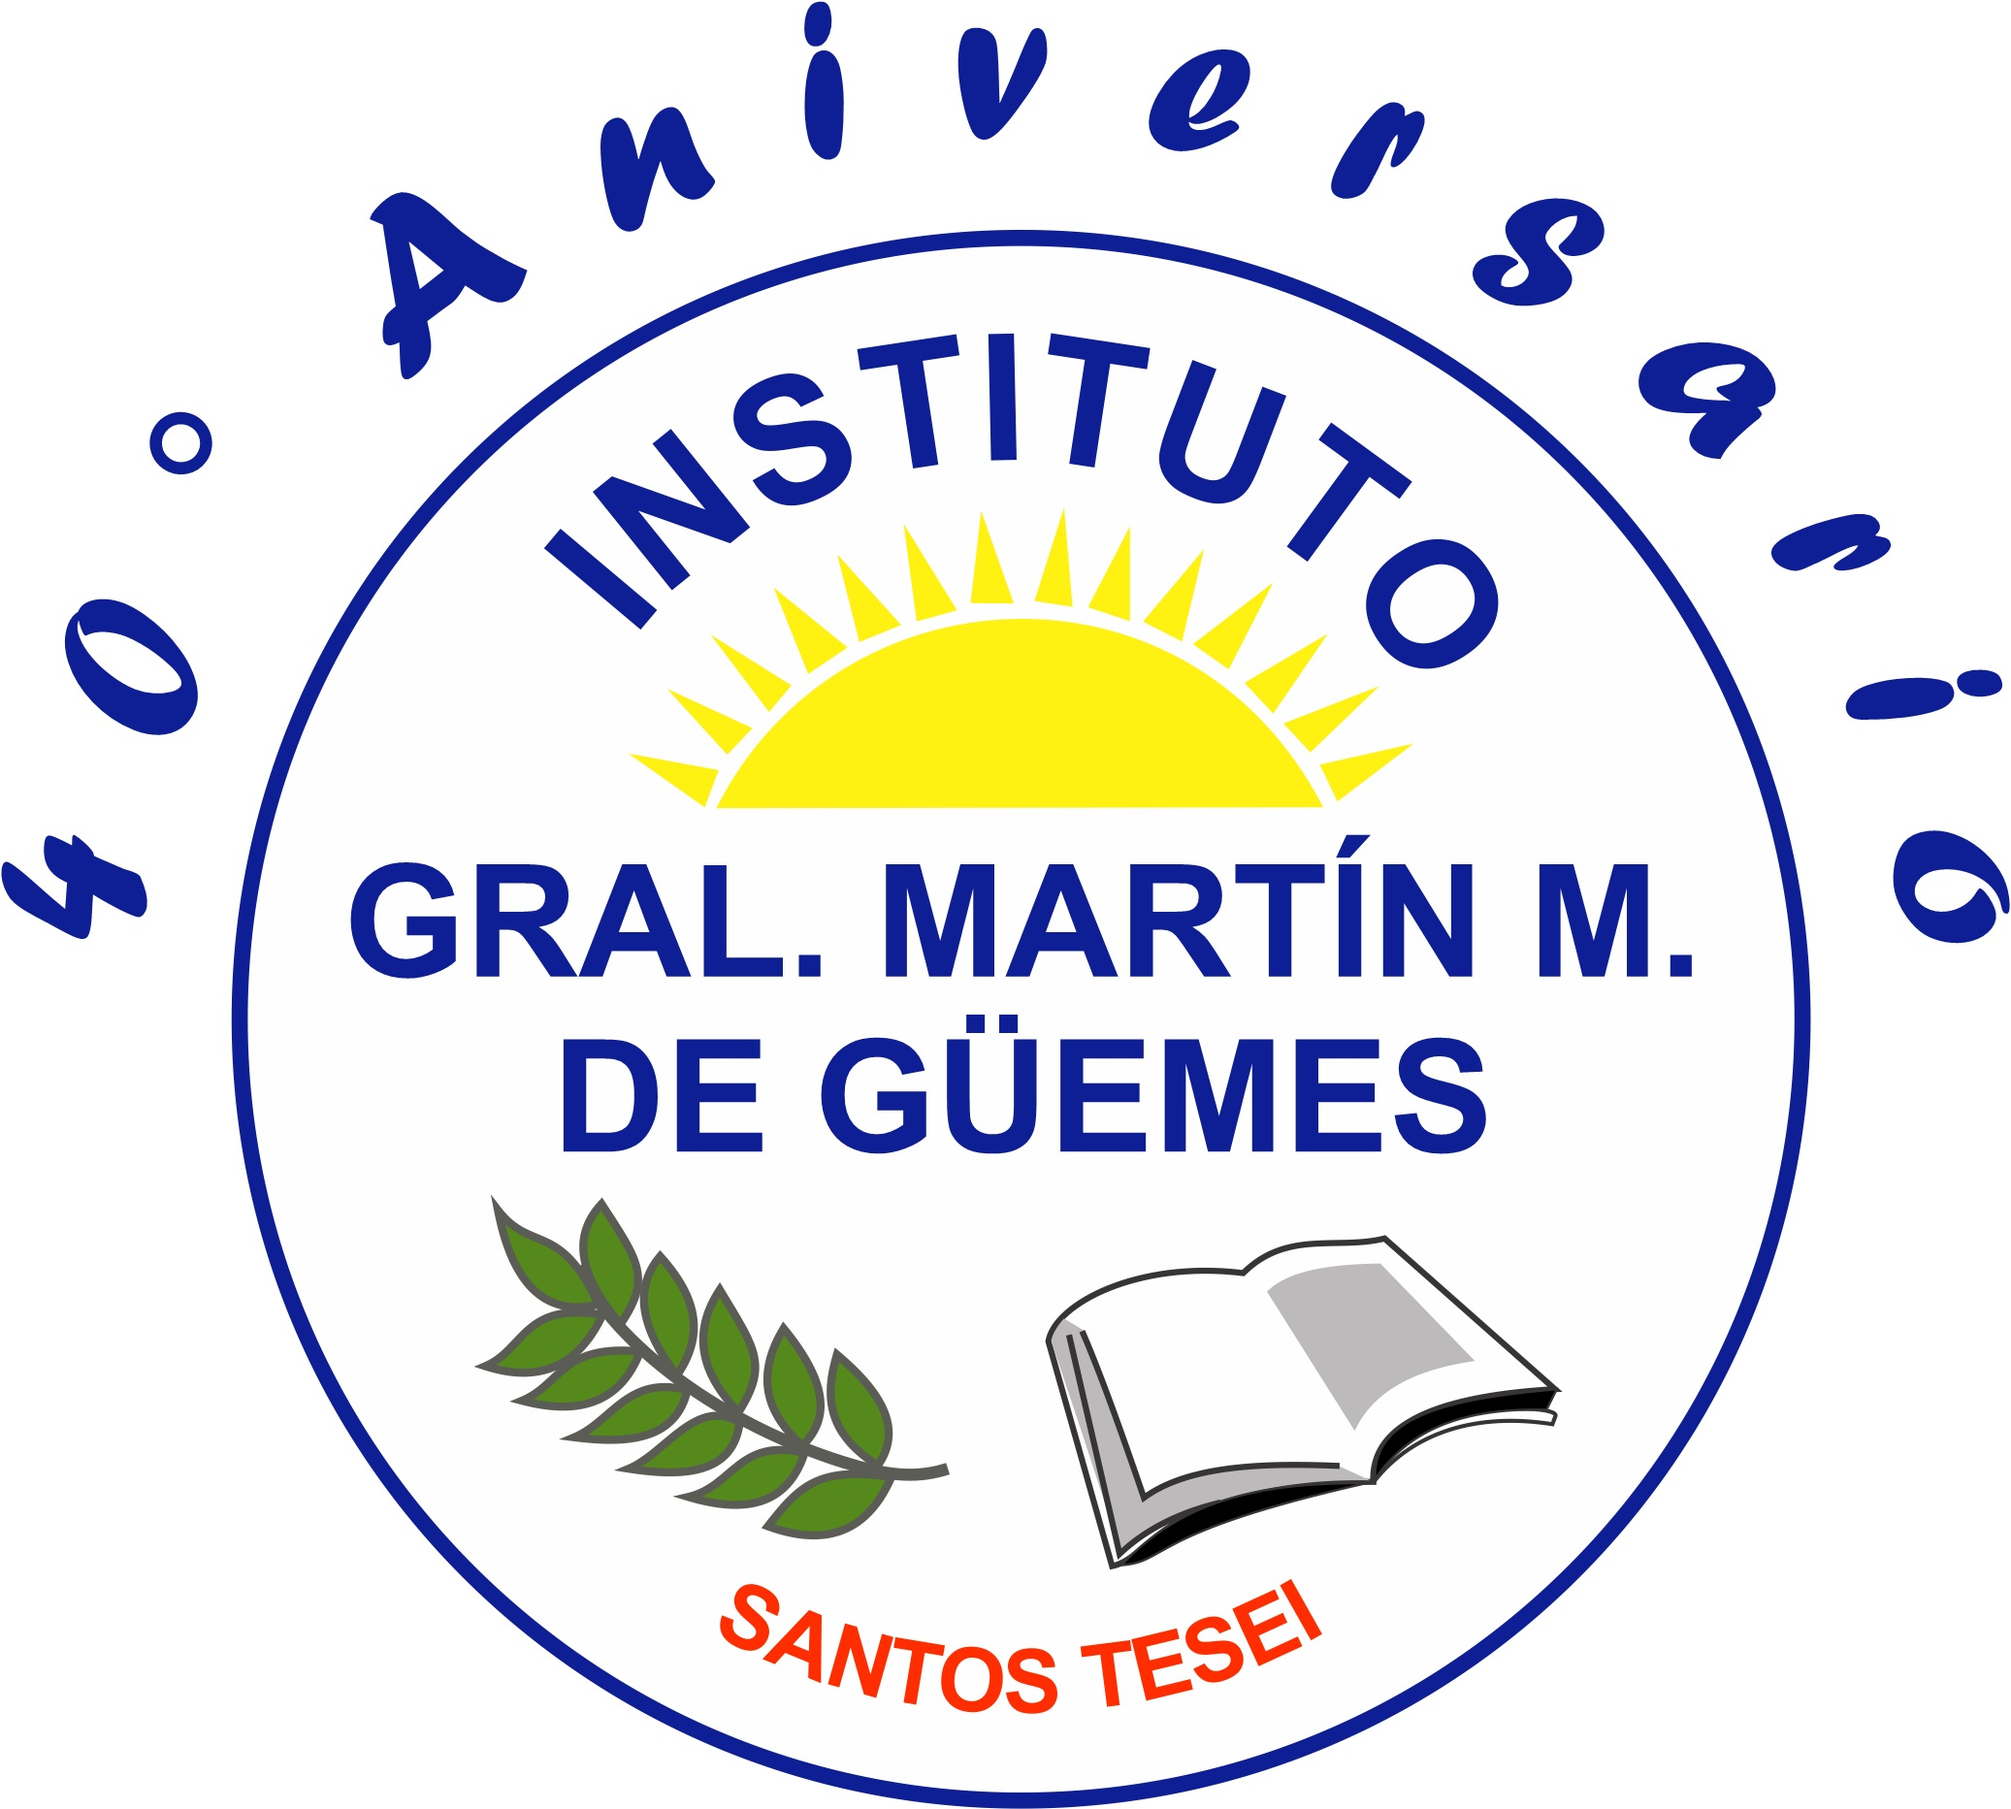
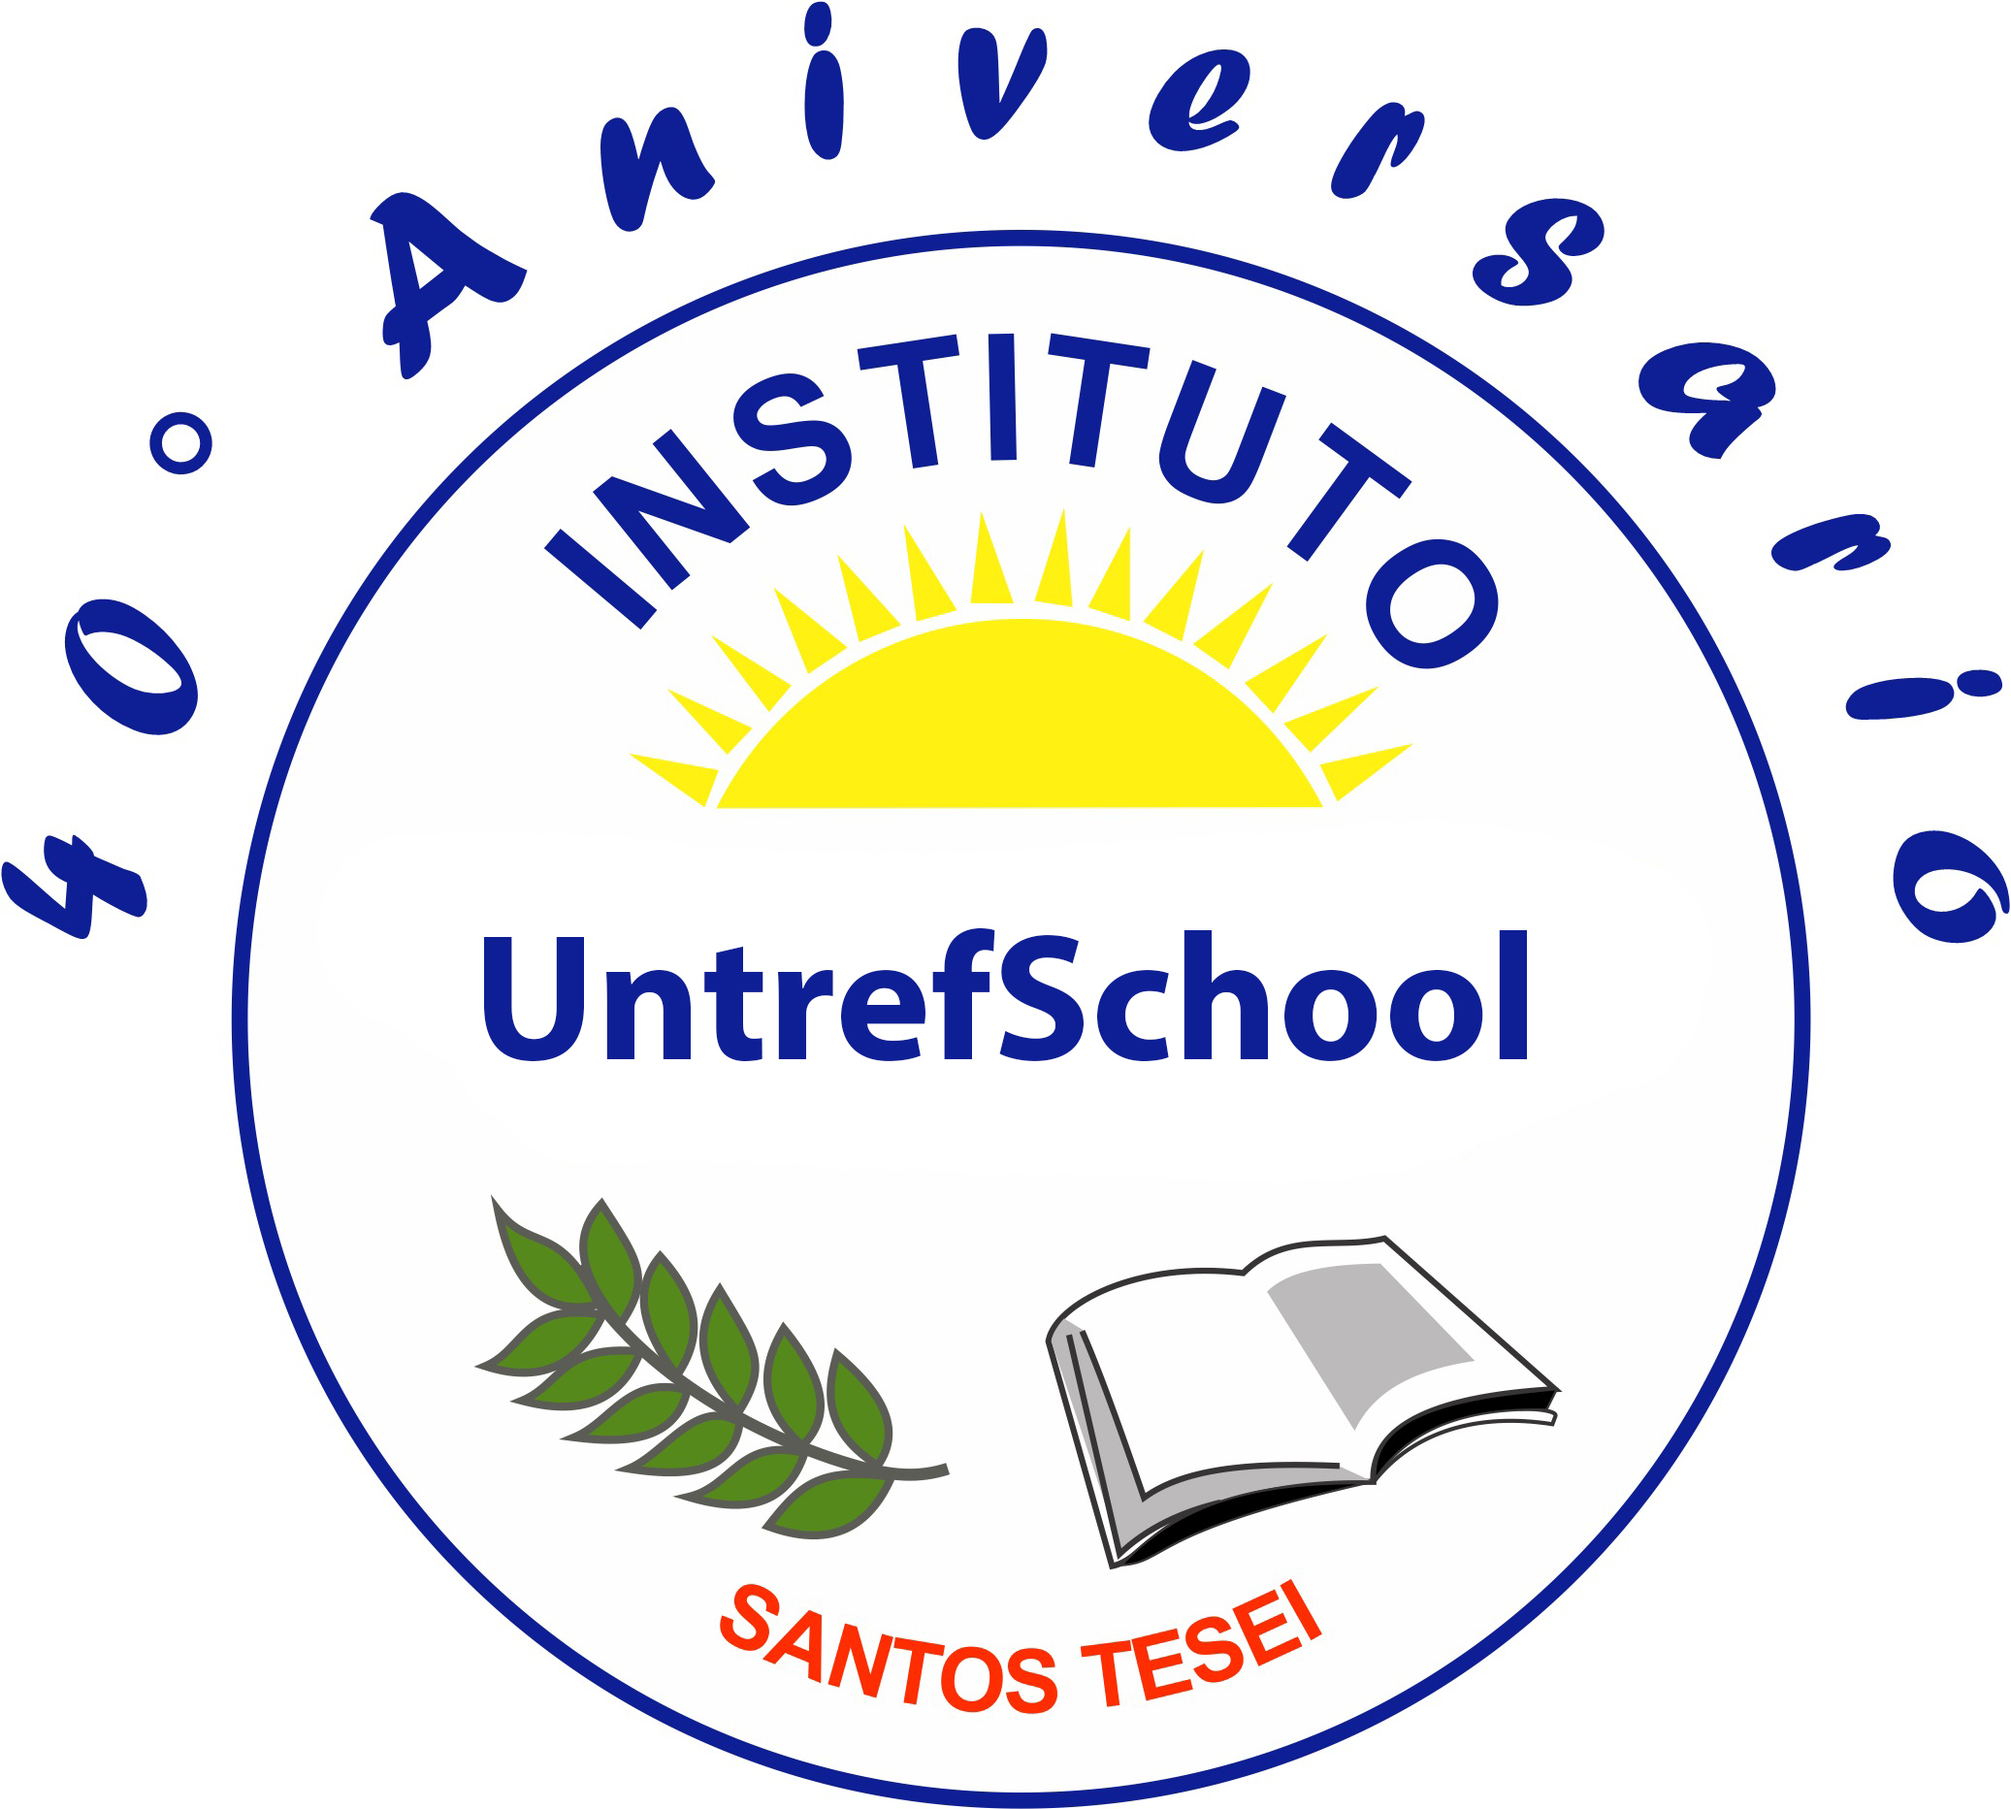
Proyecto final terminado

Changed region(s): [[0.1544, 0.4665, 0.8336, 0.6531]]

diff --git a/index.html b/index.html
@@ -7,15 +7,15 @@
         <meta name="author" content="Pablo Araoz">
         <link rel="stylesheet" href="https://fonts.googleapis.com/css2?family=Poppins:wght@300;400&display=swap">
         <link rel="stylesheet" href="https://fonts.googleapis.com/css2?family=Belanosima&family=Poppins:wght@300;400&display=swap">
-        <link rel="icon" href="./img/distintivo-para-pestaña.jpg" type="image/jpg">
+        <link rel="icon" href="./img/miniatura-pestaña.png" type="image/png">
         <link rel="stylesheet" href="./css/style.css">
-        <title>UntrefSchool</title>
+        <title>Instituto primario UntrefSchool</title>
     </head>
     
     <body class="contenedor-grid">        
         <header class="header">
             <img src="./img/distintivo.jpg" width="35%" alt="logo-guemes" class="logo">
-            <h1>Instituto Gral Martín Miguel de Güemes</h1>
+            <h1>Instituto primario UntrefSchool</h1>
             <p class="p-header">Desde 1983 ofreciendo educación de excelencia.<br>Villa Tesei, Buenos Aires<br>Nivel Primario</p>
         </header> 
         
@@ -32,9 +32,9 @@
                 <h2>¿Quienes somos?</h2>
                 <figure class="foto-descripcion">
                     <img src="./img/frente-colegio.jpg" width="100%" alt="quienes somos" class="foto-frente-colegio">
-                    <figcaption>Frente del colegio Güemes</figcaption>
+                    <figcaption>Frente del UntrefSchool</figcaption>
                     <div class="descripcion">
-                        <p class="pd">Sus fundadores, <strong>Ángel Manuel Píngaro</strong> y <strong>Elisa Bonavita de Píngaro</strong>, eligieron que lleve el nombre del General Martín Miguel de Güemes como homenaje a ese ilustre caudillo salteño que junto a sus gauchos contuvo en el norte argentino la invasión española posibilitando la gesta Sanmartiniana de la libertad de América. La primera maestra del colegio fue Claudia Soscetti, y en sus comienzos el colegio solo contaba con 2 aulas.
+                        <p class="pd">Sus fundadores, <strong>Ángel Manuel Píngaro</strong> y <strong>Elisa Bonavita de Píngaro</strong>, eligieron que lleve el nombre de UntrefSchool como homenaje a ese ilustre caudillo salteño que junto a sus gauchos contuvo en el norte argentino la invasión española posibilitando la gesta Sanmartiniana de la libertad de América. La primera maestra del colegio fue Claudia Soscetti, y en sus comienzos el colegio solo contaba con 2 aulas.
     
                         El primer alumno inscripto se llamó Natalia Sosa y el Instituto comenzó a funcionar con el primer ciclo completo (primero, segundo y tercer grado y una sala de jardín). Así fue autorizado por resolución ministerial de la Provincia de Buenos Aires, desde el momento en que abrió sus puertas, el 7 de Marzo de 1983.
                             
@@ -49,14 +49,14 @@
                 <figure class="foto-descripcion">
                     <img src="./img/tecnologia.jpg" width="100%" alt="tecnologia">
                     <div class="descripcion">
-                        <p class="pd">El instituto superior Gral. Martín Miguel de Güemes brinda importancia a la utilización del recurso tecnológico como parte de su propuesta educativa para mejorar la calidad de los procesos de aprendizaje en el uso de las TICs. A tal efecto, se dispone de feria de ciencia y tecn., sala de informática, software para alumnos y laboratorio tics.</p>
+                        <p class="pd">El instituto superior UntrefSchool brinda importancia a la utilización del recurso tecnológico como parte de su propuesta educativa para mejorar la calidad de los procesos de aprendizaje en el uso de las TICs. A tal efecto, se dispone de feria de ciencia y tecn., sala de informática, software para alumnos y laboratorio tics.</p>
                     </div>
                 </figure>
                 <p class="descripcion-foto">Actividades físicas</p>
                 <figure>
                     <img src="./img/gym.jpg" alt="gimnasia" width="100%">
                     <div class="descripcion">
-                        <p class="pd">En el colegio Güemes se practican 4 deportes (Atletismo, Volleybol, Fútbol y Handball). Además; se promueve la realización de actividades deportivas y cuenta con las siguientes instalaciones y propuestas: Torneos Intercolegiales y Inst. deportivas en el predio.
+                        <p class="pd">En el colegio UntrefSchool se practican 4 deportes (Atletismo, Volleybol, Fútbol y Handball). Además; se promueve la realización de actividades deportivas y cuenta con las siguientes instalaciones y propuestas: Torneos Intercolegiales y Inst. deportivas en el predio.
                         </p>
                     </div>
                 </figure>
@@ -64,7 +64,7 @@
                 <figure>
                     <img src="./img/arte.jpg" alt="arte" width="100%">
                     <div>
-                        <p class="pd">El colegio Gral. Martín Miguel de Güemes cuenta con infraestructura instalada asociada al proceso de formación artística (Auditorio o Teatro,Taller de Arte). El instituto superior Gral. Martín Miguel de Güemes da importancia al desarrollo artístico de sus alumnos, promoviendo los siguientes proyectos:
+                        <p class="pd">El colegio UntrefSchool cuenta con infraestructura instalada asociada al proceso de formación artística (Auditorio o Teatro,Taller de Arte). El instituto superior Gral. Martín Miguel de Güemes da importancia al desarrollo artístico de sus alumnos, promoviendo los siguientes proyectos:
                         </p>
                         <ul class="lista">
                             <li>Artes plásticas</li>
@@ -79,7 +79,7 @@
             <section id="propuesta-educativa" class="propuesta-educativa">
                 <h2>Propuesta educativa</h2>
                 <div class="explicacion-propuesta">
-                    <p class="pd">El Inst. Gral. M. M. de Güemes sito en la ciudad de Santos Tesei partido de Hurlingham, es una institución educativa de gestión privada, jornada simple y formación laica con reconocimiento oficial en todos sus niveles; Inicial (DIEGEP 1964), Primario (DIEGEP 1964) y Secundario (DIEGEP 6798).
+                    <p class="pd">El Instituto UntrefSchool sito en la ciudad de Santos Tesei partido de Hurlingham, es una institución educativa de gestión privada, jornada simple y formación laica con reconocimiento oficial en todos sus niveles; Inicial (DIEGEP 1964), Primario (DIEGEP 1964) y Secundario (DIEGEP 6798).
                         
                         Su objetivo es formar una comunidad donde los estudiantes, las familias, los docentes y los no docentes compartan un mismo proyecto educativo, brindando a nuestros estudiantes, como sujetos de derecho, un espacio en el que puedan crecer desarrollándose de modo integral de modo que cuenten con las capacidades cognitivas, sociales, afectivas, tecnológicas, políticas y todas aquellas que el mundo actual requiere para su adecuado desarrollo en él.</p> 
                 </div>
@@ -105,7 +105,7 @@
                         <p class="descripcion-foto">Aprender</p>
                         <figure>
                             <img src="./img/aprender.jpg" alt="aprender" width="100%" class="imagen-grilla">
-                            <p>Los alumnos del colegio Güemes aprenden jugando y en grupo con sus compañeros.</p>                            
+                            <p>Los alumnos del colegio UntrefSchool aprenden jugando y en grupo con sus compañeros.</p>                            
                         </figure>
                     </article> 
 
@@ -141,7 +141,7 @@
             <div class="ubicacion-y-redes">
                 <div class="ubicacion">
                     <h2>Ubicación</h2>                
-                        <p>La escuela primaria Gral. Martín Miguel de Güemes se encuentra ubicada en la localidad de Villa Santos Tesei; perteneciente al Municipio de Hurlingham de la Provincia de Buenos Aires. La dirección es Juana Azurduy 521, Hurlingham, Ciudad Villa Santos Tesei (CP: 1688).
+                        <p>La escuela primaria UntrefSchool se encuentra ubicada en la localidad de Villa Santos Tesei; perteneciente al Municipio de Hurlingham de la Provincia de Buenos Aires. La dirección es Juana Azurduy 521, Hurlingham, Ciudad Villa Santos Tesei (CP: 1688).
                         </p>
                         <iframe src="https://www.google.com/maps/embed?pb=!1m18!1m12!1m3!1d488.11794363273873!2d-58.64086090466942!3d-34.612934263322025!2m3!1f0!2f0!3f0!3m2!1i1024!2i768!4f13.1!3m3!1m2!1s0x95bcb8d5e748743d%3A0x9b2e2276d34b0c4c!2sInstituto%20Gral.Martin%20Miguel%20de%20G%C3%BCemes%20Jard%C3%ADn%2C%20Primaria%20y%20Secundaria!5e0!3m2!1ses-419!2sar!4v1689865211625!5m2!1ses-419!2sar" width="100%" height="300px" style="border:0;" allowfullscreen="" loading="lazy" referrerpolicy="no-referrer-when-downgrade"></iframe>                
                 </div>
@@ -160,7 +160,7 @@
                 </div>
             </div>
             <div class="telefonos-horarios">
-                <h3>Telefonos y horarios</h3>
+                <h3>Teléfonos y horarios</h3>
                 <p class="pht">
                     Lunes a Viernes de 08:00 a 12:00
                     y de 13:00 a 17:00.                     

diff --git a/css/style.css b/css/style.css
@@ -132,6 +132,7 @@ h3{
 
 .propuesta-educativa{
     border-top: 2px solid black;
+
 }
 
 .explicacion-propuesta{
@@ -251,10 +252,24 @@ h3{
         font-size: 1.1rem;      
     }
 
+    .explicacion-propuesta{
+        width: 90%;
+        margin: auto;
+    }
     
     .alumnos-nuevos{
         font-size: 1.4rem;
         font-weight: 800;
+    }   
+    
+    .u-noticias{
+        width: 90%;
+        margin: auto;
+    }
+
+    .ubicacion{
+        width: 90%;
+        margin: auto;
     }    
 
     .footer{
@@ -262,7 +277,7 @@ h3{
     }
 
     .redes-sociales{
-        width: 90%;
+        width: 100%;
         margin: auto;
     }
 
@@ -395,22 +410,15 @@ h3{
     .ubicacion-y-redes{
         grid-area: area2;
     }
-
+    
     .redes-sociales{
         display: flex;
         flex-direction: column;
-
     }
 
     .parrafo-redes{
         font-size: 1.3rem;       
     }
-
-    
-    
-
-
-
 
 }
 

diff --git a/formulario.html b/formulario.html
@@ -7,12 +7,13 @@
         <meta name="author" content="Pablo Araoz">
         <link rel="stylesheet" href="https://fonts.googleapis.com/css2?family=Poppins:wght@300;400&display=swap">
         <link rel="stylesheet" href="https://fonts.googleapis.com/css2?family=Belanosima&family=Poppins:wght@300;400&display=swap">
+        <link rel="icon" href="./img/miniatura-pestaña.png" type="image/png">
         <link rel="stylesheet" href="./css/style.form.css">
         <title>Formulario de inscripción</title>
     </head>
     
     <body>
-        <h1>Formulario de inscripción</h1>    
+        <h1>Formulario de inscripción para la escuela UntrefSchool</h1>    
         <h2>Escribinos para registrar a tu hijo/a como nuevo/a alumno/a:</h2>
         <section id="formulario">
             <form action="https://formsubmit.co/pablodaniel_84@hotmail.com" method="POST" class="form">

diff --git a/css/style.form.css b/css/style.form.css
@@ -12,8 +12,6 @@ body{
     padding: 10px;
 }
 
-
-
 h1{
     color:#00425A;
     font-family: 'Belanosima';
@@ -26,12 +24,14 @@ h1{
     height: 3.3em;
     box-shadow: -1px 2px 5px #18182377;
     border-radius: 5px;
+    outline-color: rgba(0, 0, 0, 0.192);
     border: 0;
 }
 
 /*¿Cómo quitarle el borde negro a las cajas input?*/
 .caja-texto:focus{
     box-shadow: 3px 5px 5px #FC7300; 
+    
 }
 
 .caja-texto:valid{
@@ -40,6 +40,7 @@ h1{
 
 .caja-comentario{
     box-shadow: -1px 2px 5px #18182377;
+    outline-color: rgba(0, 0, 0, 0.192);
     border-radius: 5px;
     border: 0;
 }

diff --git a/README.md b/README.md
@@ -1,0 +1,8 @@
+ #PROYECTO-INTEGRADOR-WEB-UNTRESFSCHOOL
+
+Este es un proyecto final del curso de FrontEnd de "Argentina programa 4.0". 
+
+Se aplicó responsive design para que se vea bien en todos los dispositivos: 
+
+CELULARES        TABLETS VERTICALES    TABLETS HORIZONTALES    PANTALLAS DE COMPUTADORA
+320px a 412px    768px a 800px         1280px                  1920px
